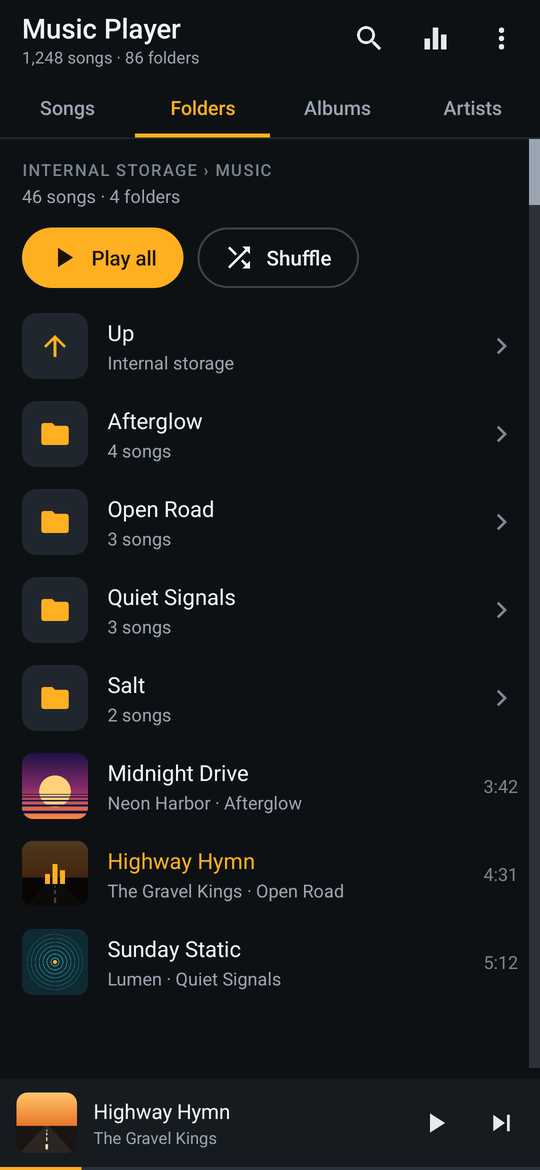
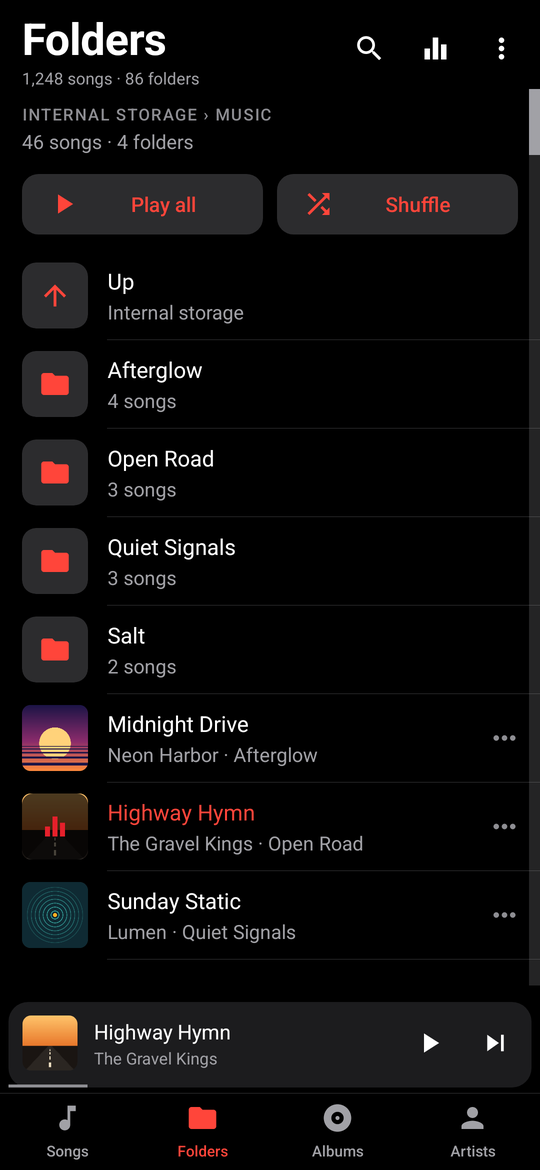
Update the README, changelog and screenshots for 1.2.0
New screenshots rendered from the real layouts in eight looks (dark and light,
flat and glass over a plain page, the cover art or a picture), plus the glass
pop-ups, the widget and the icon. The README now covers the new look, the glass
backgrounds, the pop-ups before permissions, deleting songs, the device
equalizer and the widget, and says plainly what has not been tried on devices.

Claude-Session: https://claude.ai/code/session_019ZqbsFQwfGmcDySkHcjc6k

diff --git a/README.md b/README.md
@@ -1,13 +1,16 @@
 # Music Player
 
-A small, fast music player for Android 8.0 and newer. It is made for phones and for **car head units** (Android car stereos): it finds every song and every folder on the device, including USB drives and SD cards, it has a real equalizer, and it looks the way you want: **light, dark or automatic**, flat or **liquid glass**. It can also **update itself** from this repository's releases.
+A small, fast music player for Android 8.0 and newer, with a clean look inspired by Apple Music: white pages (black in dark mode), a red accent, large titles and a tab bar at the bottom. It is made for phones and for **car head units** (Android car stereos): it finds every song in every folder, including USB drives and SD cards, it has a real equalizer that can also read and control the device's own, and it can **update itself** from this repository's releases.
 
-* **Tiny:** the installable APK is about 120 KB. No libraries, no ads, no tracking.
+* **Tiny:** the installable APK is about 160 KB. No libraries, no ads, no tracking.
 * **Private:** your music never touches the network. The only thing the app ever asks the internet is "is there a newer release on GitHub?", at most once a day, and you can turn even that off.
 * **Every folder, every song:** Songs, Folders, Albums and Artists tabs, search, and a folder browser that shows each storage volume.
-* **Equalizer:** presets, a band slider per frequency, bass boost, surround and volume boost.
 * **Light, dark or automatic:** by default the app **follows your device** and switches when it does. You can also force Light or Dark.
-* **Liquid glass:** an optional look with frosted glass panels over a blurred copy of the cover art that is playing.
+* **Liquid glass:** an optional look with frosted glass panels. Behind them you choose a plain white or black page, the blurred cover art, **your own picture**, or **your device wallpaper**.
+* **Glass pop-ups:** every permission question starts with a liquid-glass message that says why, with **Allow** and **Not allowed**.
+* **Delete songs for good:** from a song's more button, or a whole album, artist or folder. You confirm first; the files are then gone at once.
+* **Equalizer:** presets, a slider per band, bass boost, surround and volume boost. The screen also shows what the **device's own equalizer** says, and can copy it or control it where Android allows.
+* **Widget and icon:** a home-screen widget with cover and playback buttons (Follow my device, Light or Dark), and a new app icon.
 * **Updates in Settings:** check for, download, verify and install a new version without leaving the app.
 * **Built for the car:** in landscape on a wide screen the player and the library share one screen, with large touch targets. Steering-wheel, Bluetooth and headset media keys are handled, and can start your last queue when the app is closed.
 
@@ -15,19 +18,27 @@ A small, fast music player for Android 8.0 and newer. It is made for phones and 
 
 These are renders of the app's real layouts and real code with sample (fictional) songs and generated cover art. They are not photos of a device.
 
-The four looks. **Follow my device** picks Dark or Light for you; **Liquid glass** can be switched on in either:
+The looks. **Follow my device** picks Dark or Light for you. **Liquid glass** can be switched on in either, over a plain page, the cover art, or your own picture:
 
-<img src="docs/screenshots/looks.png" alt="Songs and Now playing in four looks: dark, light, liquid glass on dark, and liquid glass on light">
+<img src="docs/screenshots/looks.png" alt="Songs and Now playing in six looks: dark, light, liquid glass on dark and on light, glass over cover art, and glass over a picture">
+
+Pop-ups and menus are liquid glass too, in every look:
+
+<img src="docs/screenshots/popups.png" alt="The permission question, the delete confirmation and the more menu, in glass, on dark and light">
 
 Settings, with the update card in four of its states:
 
 <img src="docs/screenshots/settings.png" alt="The Settings screen, and its Updates card showing an update available, a download in progress, the one-time install permission, and up to date">
 
+The home-screen widget in its three styles, and the app icon:
+
+<img src="docs/screenshots/widget.png" alt="The widget with the cover, title and buttons in follow-device, light and dark styles, and the app icon as a square, a circle and as a themed icon">
+
 Phone and car head unit (1280 × 720, landscape):
 
-<img src="docs/screenshots/overview.png" alt="Songs, Now playing, Folders and Equalizer on a phone; the player with the library, and the equalizer, on a car head unit">
+<img src="docs/screenshots/overview.png" alt="Songs, Now playing, Equalizer and Settings on a phone; the player with the library, and the equalizer, on a car head unit">
 
-Single screens: [Songs](docs/screenshots/phone-songs.png), [Songs in liquid glass](docs/screenshots/phone-songs-glass-dark.png), [Folders](docs/screenshots/phone-folders.png), [Albums](docs/screenshots/phone-albums.png), [Now playing](docs/screenshots/phone-now-playing.png) ([light](docs/screenshots/phone-now-playing-light.png), [glass dark](docs/screenshots/phone-now-playing-glass-dark.png), [glass light](docs/screenshots/phone-now-playing-glass-light.png)), [Equalizer](docs/screenshots/phone-equalizer.png), [Up next](docs/screenshots/phone-queue.png), [Settings](docs/screenshots/phone-settings.png), [Car library](docs/screenshots/car-library.png), [Car library in glass](docs/screenshots/car-library-glass-dark.png), [Car equalizer](docs/screenshots/car-equalizer.png).
+Single screens: [Songs](docs/screenshots/phone-songs.png) ([light](docs/screenshots/phone-songs-light.png)), [Folders](docs/screenshots/phone-folders.png), [Albums](docs/screenshots/phone-albums.png), [Now playing](docs/screenshots/phone-now-playing.png) ([light](docs/screenshots/phone-now-playing-light.png)), [Equalizer](docs/screenshots/phone-equalizer.png), [Up next](docs/screenshots/phone-queue.png), [Settings](docs/screenshots/phone-settings.png), [Car library](docs/screenshots/car-library.png) ([in glass](docs/screenshots/car-library-glass.png)), [Car equalizer](docs/screenshots/car-equalizer.png).
 
 ## Install
 
@@ -51,13 +62,27 @@ Open the menu (⋮) → **Settings** → **Appearance**.
 |---|---|
 | **Follow my device** (default) | Uses your phone's or head unit's own dark or light setting, and changes by itself when that changes (at sunset, or when you flip the quick setting). Settings shows which mode the device is using right now. |
 | **Light** / **Dark** | Always light or always dark, whatever the device says. |
-| **Liquid glass** (switch) | Rounded, frosted glass panels over a blurred, colourful copy of the cover that is playing. The background changes with every song, and fades from one to the next. Works with light, dark and "Follow my device". |
+| **Liquid glass** (switch) | Rounded, frosted glass panels, a floating glass tab bar and mini player. Works with light, dark and "Follow my device". |
+
+The flat look is the Apple Music-inspired one: white pages in light mode and true black in dark mode, a red accent, large titles, artwork rows with a more (⋯) button, a mini player above a tab bar, and Settings in grouped cards.
+
+### What is behind the glass
+
+Under **Liquid glass background** in Settings:
+
+| Background | What it shows |
+|---|---|
+| **White or black** (default) | A clean page that follows your theme. |
+| **Cover art** | A soft blur of the song that is playing, fading from one song to the next. |
+| **My picture** | A picture you pick from your gallery. It is copied into the app, scaled down, so the app never needs access to your gallery again. |
+| **Device wallpaper** | Your wallpaper. Android lets an app read the wallpaper *picture* only with some permissions (up to Android 12 the storage permission, none at all on the newest versions). Where it does not, the wallpaper's three main **colours**, which Android always shares, are used as a soft gradient, and Settings says so. |
+
+Pictures and covers are softened and kept inside a brightness range, so text stays readable on top of any of them: bright ones are darkened at night and dark ones lightened by day.
 
 How it is built, in case you want to change it:
 
-* Colours are Android resources. The dark palette is the default in `values/`, and the light palette is in `values-notnight/`. "Follow my device" simply leaves Android's own dark/light choice alone, so it works on Android 8 as well, where apps have no dark-mode switch of their own. Light and Dark override that choice for this app only.
-* The glass look is plain graphics code, no blur library. Layouts opt in with a tag such as `android:tag="glass:card"`; `Glass` reads the tags and gives those views glass backgrounds, so there is one set of layouts for every look. The cover is shrunk to 24 × 24 pixels and softened once per song, then drawn stretched behind the screen.
-* A busy or very bright cover can make text hard to read, so the backdrop is kept inside a brightness range: bright covers are darkened at night and dark covers are lightened by day. The colour still comes from the cover.
+* Colours are Android resources. The dark palette is the default in `values/`, and the light palette is in `values-notnight/`. "Follow my device" simply leaves Android's own dark/light choice alone, so it works on Android 8 as well, where apps have no dark-mode switch of their own. Light and Dark override that choice for this app only. The red accent is one colour, `accent`.
+* The glass look is plain graphics code, no blur library. Layouts opt in with a tag such as `android:tag="glass:card"`; `Glass` reads the tags and gives those views glass backgrounds, so there is one set of layouts for every look. Over a plain page the panels get a fill of their own so they can be seen; over a cover or picture they are mostly see-through. Pop-ups blur what is behind them on Android 12 and newer.
 
 ## Settings
 
@@ -65,11 +90,45 @@ How it is built, in case you want to change it:
 |---|---|---|
 | Appearance | Theme | Follow my device, Light or Dark. |
 | Appearance | Liquid glass | The glass look above. |
+| Liquid glass background | White or black, Cover art, My picture, Device wallpaper | What shows behind the glass panels. |
 | Library | Show all audio files | Include ringtones, voice notes and other short sounds. |
 | Library | Scan storage for music | Index new files on internal storage, SD cards and USB drives. |
 | Updates | Version, **Check for updates** | See [Updates](#updates). |
 | Updates | Check automatically | Look for a new version once a day when the app opens. On by default. |
 | About | Source code and releases | Opens this repository on GitHub. |
+
+## Pop-ups before permissions
+
+Android versions differ in what they need, so the app asks in one place, and always starts with a glass pop-up that says why: **Allow** shows Android's own question, **Not allowed** leaves the feature off and the screen explains what is missing.
+
+| When | What is asked | On which Android |
+|---|---|---|
+| First start | Read your music: `READ_MEDIA_AUDIO` (13 and newer) or `READ_EXTERNAL_STORAGE` (12 and older). Android 13 and newer also ask to show the playback controls (`POST_NOTIFICATIONS`). | all |
+| Deleting a song | Write access to delete files, once. | 10 and older only. Android 11 and newer show their own "allow deleting?" screen for each delete instead. |
+| Installing an update | "Install unknown apps" for Music Player, once. | all |
+| Using your wallpaper | Reading the wallpaper picture. If Android says no, its colours are used. | storage permission on 12 and older; not available on 13 and newer |
+| After Android stops asking | A pop-up with **Open settings** for this app's page. | all |
+
+## Deleting songs
+
+Tap a song's **⋯** (or long-press anything in a list): **Delete…**. For an album, artist or folder it says **Delete all these songs…**. The same menu is on the Now Playing screen. A glass pop-up asks once ("The files are deleted from this device for good, right away. This cannot be undone."). There is no recycle bin.
+
+* **Android 11 and newer:** apps may not delete other apps' media silently, so after your confirmation Android shows its own "Allow Music Player to delete this audio file?" screen. After you allow it, the files are deleted at once.
+* **Android 10 and older:** the app asks for write access once, then deletes directly.
+* Deleted songs are removed from the play queue. If the song that was playing is deleted, playback moves on.
+
+## Equalizer and the device equalizer
+
+The equalizer works on this player's own audio, so other apps keep their own sound. At the top of the screen a **Device equalizer** card says what Android's own equalizer is doing: on or off, and which preset is selected.
+
+* **Read from device** copies the device's on/off state and curve into this player's equalizer.
+* **Control the whole device** makes the sliders change the equalizer of the whole device instead (every app is affected, and this player's own equalizer steps aside so the sound is not shaped twice). It stays on only while Music Player runs.
+
+How much of this works depends on the device. Android lets an app reach the device equalizer (the "output mix") only where the manufacturer allows it, and only one app can control it at a time. When it is not allowed, the card says so, and the equalizer applies to this player only. This has not been tried on real devices yet.
+
+## Widget and icon
+
+Long-press the home screen → **Widgets** → **Music Player**. The widget shows the cover, the title and artist, and **previous / play or pause / next**; tapping it opens the app. When you add it, you choose its style: **Follow my device**, **Light** or **Dark**. The widget follows playback while Music Player runs, and shows the last song after a restart. The app icon is a red glass tile with a white note, and it also has a single-colour version for Android 13's themed icons.
 
 ## Updates
 
@@ -92,11 +151,11 @@ A **banner** on the library screen shows when a newer version is known: **Update
 |---|---|
 | Play a song | Tap it. The list it came from (all songs, a folder, an album) becomes the queue. |
 | Play a whole folder, album or artist | Open it and tap **Play all** or **Shuffle**. |
-| Add to the queue | Long-press a song, folder, album or artist: **Play next** or **Add to queue**. |
+| Add to the queue, delete, see details | Tap the **⋯** at the end of a song, album, artist or folder (or long-press it): **Play next**, **Add to queue**, **Song info**, **Delete…**. |
 | See or edit the queue | Open the player, then the queue icon. Tap to jump, long-press to remove. |
 | Search | Tap the magnifier. It searches title, artist, album and file name. |
 | Use the equalizer | Tap the equalizer icon. Picking a preset or moving a slider turns it on. |
-| Change the look or check for updates | Menu (⋮) → **Settings**. |
+| Change the look, the glass background, or check for updates | Menu (⋮) → **Settings**. |
 | Find music that is not listed | Menu (⋮) → **Scan storage for music** (also in Settings → Library). |
 | See ringtones and voice notes too | Menu (⋮) → **Settings** → **Show all audio files**. |
 
@@ -133,7 +192,7 @@ The version comes from one place. `app/build.gradle` has a default, and `-PappVe
 ```
 
 * Plain JVM tests for the play queue (shuffle, repeat, editing), the folder tree and volume naming, equalizer presets, text formatting and version comparison.
-* Robolectric tests that open every screen against a fake MediaStore, play through a fake `MediaPlayer`, and check each look (dark, light, glass) including how the glass backdrop keeps text readable on any cover. They also exercise the updater against a local test server (finding a release, being rate-limited or offline, downloading, a wrong checksum, a file the verifier rejects, refusing plain HTTP, cancelling, remembering a release while offline, the once-a-day limit, the install permission), the file checks (another app, an old version, a different signing key), and every state of the update card.
+* Robolectric tests that open every screen against a fake MediaStore, play through a fake `MediaPlayer`, and check each look (dark, light, and glass over each kind of background) including how the glass backdrop keeps text readable on any cover. They also go through the "more" menu and the delete confirmation for each Android version's way of deleting, the glass pop-ups and the permission questions, choosing a picture or the wallpaper for the glass, the widget and its style screen, and what the equalizer screen says about the device equalizer (with a pretend device equalizer, since a test runtime has none). The updater tests exercise it against a local test server (finding a release, being rate-limited or offline, downloading, a wrong checksum, a file the verifier rejects, refusing plain HTTP, cancelling, remembering a release while offline, the once-a-day limit, the install permission), the file checks (another app, an old version, a different signing key), and every state of the update card.
 * Robolectric downloads an Android SDK jar from Maven Central on first run.
 
 The GitHub Actions workflow in `.github/workflows/build.yml` builds the APK on every push (and uploads it first), then runs the tests and lint.
@@ -188,6 +247,11 @@ Use the same password for the store and the key: the default PKCS #12 key store 
 | `Appearance` | Light, dark and follow-device: wraps each screen's context with the chosen night mode and keeps the system bars readable. Screens rebuild themselves when the look changes. |
 | `Glass`, `GlassDrawable`, `BackdropDrawable` | The liquid-glass look: tag-driven decoration of the layouts, translucent panels with a highlight and rim, and the blurred cover-art window background. |
 | `SettingsActivity`, `Prefs` | Settings screen and saved choices. |
+| `BackgroundStore`, `BackdropDrawable` | The picture behind the glass: copies, scales and loads your picture or the wallpaper, and draws plain, cover, or picture backgrounds cropped and kept readable. |
+| `GlassDialog`, `Permissions` | The liquid-glass alert and action sheet, and every permission question, decided per Android version. |
+| `MediaDeleter` | Deleting songs: the system request on Android 11 and newer, direct deletion before. |
+| `DeviceEq` | The device equalizer (output mix) as far as Android allows, behind a small interface so it can be tested. |
+| `PlayerWidget`, `WidgetConfigActivity` | The home-screen widget and the screen where its style is chosen. |
 | `Updater`, `Release`, `ReleaseApi` | The update state machine (check, download, verify, install), GitHub release parsing, and the HTTPS download with a checksum. |
 | `ApkVerifier`, `UpdateInstaller`, `InstallReceiver` | Checks the downloaded file (package, version, signing key) and hands it to Android's `PackageInstaller`. |
 
@@ -202,19 +266,22 @@ Only Android framework APIs are used, and the app is written in Java. That is wh
 | `POST_NOTIFICATIONS` | Show the playback controls in the notification shade (Android 13+). Playback works if you decline. |
 | `WAKE_LOCK` | Stop the CPU sleeping in the middle of a song. |
 | `MODIFY_AUDIO_SETTINGS` | Standard permission for apps that use audio effects. |
+| `WRITE_EXTERNAL_STORAGE` (Android 10 and older only) | Delete songs. Android 11 and newer never grant it and ask per delete instead. The app also sets `requestLegacyExternalStorage` so Android 10 lets it delete files directly. |
 | `INTERNET` | Only to look for updates and download them from GitHub. |
 | `REQUEST_INSTALL_PACKAGES` | Only so Android lets the app hand a downloaded update to the installer. Android still asks you to confirm every install. |
 
 ## Status and limits
 
-* **Checked:** 139 automated tests, Android lint, an R8-shrunk release build whose version, signature and manifest were inspected with `apksigner` and `aapt2`, and renders of every screen in all four looks.
-* **Not yet run on real hardware or an emulator.** Actual sound output, the hardware equalizer effects, notifications, head-unit specifics (USB mounting, key mapping), how the glass look performs on slow head units, and the real Android installer dialog during an update all need hands-on testing. If something misbehaves, please open an issue with the device model and Android version.
+* **Checked:** 195 automated tests, Android lint, an R8-shrunk release build whose version, signature and manifest were inspected with `apksigner` and `aapt2`, and renders of every screen in all eight looks (dark and light, flat and over each glass background).
+* **Not yet run on real hardware or an emulator.** Actual sound output, the hardware equalizer effects, notifications, head-unit specifics (USB mounting, key mapping), how the glass look performs on slow head units, the real Android installer dialog during an update, Android's own delete confirmation on Android 11 and newer, the wallpaper on different versions, and the widget on different launchers all need hands-on testing. If something misbehaves, please open an issue with the device model and Android version.
+* The device equalizer is best effort: many devices do not let an app see or change it, and the card then says so. Controlling it affects every app and lasts only while Music Player runs.
+* Reading the wallpaper *picture* is not possible on the newest Android versions; the wallpaper's colours are used instead.
 * Updating needs a published GitHub release, signed with a stable key. Until the first one exists, "Check for updates" says no update has been published yet.
 * Gapless playback is not implemented; there is a short gap between songs.
 * Android Auto and Android Automotive OS are not supported. The app targets Android devices that run the full Android UI, which covers most aftermarket head units.
 * Opening a single audio file from a file manager ("Open with") is not supported yet. Songs must be in MediaStore.
 
-Ideas for later: playlists, sleep timer, gapless playback, Android Auto browsing, delta updates.
+Ideas for later: playlists, sleep timer, gapless playback, Android Auto browsing, delta updates, a resizable widget with a progress bar.
 
 ## Credits
 

diff --git a/CHANGELOG.md b/CHANGELOG.md
@@ -4,6 +4,17 @@ The newest version is first. The release workflow publishes a version's entry as
 release's notes, and the app shows those notes under Settings > Updates. Keep each entry
 short and in plain sentences: the app shows it as plain text.
 
+## [1.2.0] - 2026-11-12
+
+- A new look, like Apple Music: white pages (black in dark mode), a red accent, large titles, a tab bar at the bottom, round artwork and a clean Now Playing screen. Every earlier feature is still there.
+- Liquid glass is now neutral by default. You choose what is behind the glass: a plain white or black page, the cover art, your own picture, or your device wallpaper. Where Android does not let apps read the wallpaper picture, its colours are used.
+- Every permission question now starts with a liquid-glass pop-up that says why it is needed, with Allow and Not allowed.
+- Delete songs for good: from a song's more button, or for a whole album, artist or folder. You confirm first, and the files are gone at once. On Android 11 and newer Android shows its own confirmation as well.
+- The equalizer screen shows what the device's own equalizer says (on or off, preset). You can copy those settings into the player, or let the player control the whole device's equalizer where Android allows it.
+- A home-screen widget with the cover, the song and previous, play and next. Choose Follow my device, Light or Dark for each widget.
+- A new app icon.
+- Good to know: Android 10 and older ask for permission to delete files once. Android 13 and newer do not let apps read the wallpaper picture, so the wallpaper's colours are used.
+
 ## [1.1.0] - 2026-11-11
 
 - Light and dark themes. "Follow device" is the default: the app uses whatever your phone or head unit is set to, and changes by itself when that changes. You can also force Light or Dark.
